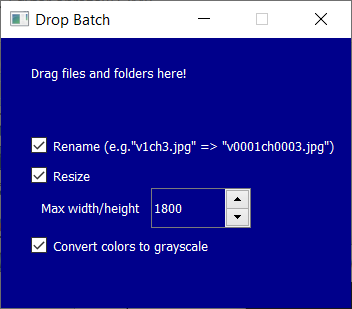
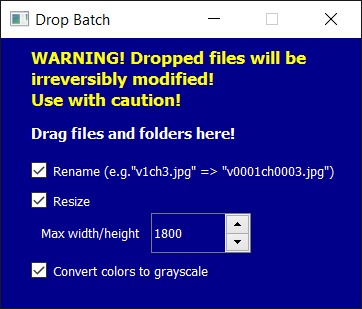
Warning text

diff --git a/DropBatch.py b/DropBatch.py
@@ -113,30 +113,35 @@ class DropBatch(QMainWindow):
 		
 		self.setAcceptDrops(True)
 		#self.resize(350, 300)
-		self.setGeometry(20, 50, 350, 270)
+		self.setGeometry(20, 50, 360, 270)
+		
+		warningLabel = QLabel("WARNING! Dropped files will be\nirreversibly modified!\nUse with caution!", self)
+		warningLabel.setGeometry(30, 0, 280, 80)
+		warningLabel.setStyleSheet("color: yellow; font-weight: bold; font-size: 10pt")
 		
 		self.statusLabel = QLabel("Drag files and folders here!", self)
-		self.statusLabel.setGeometry(30, 20, 250, 30)
+		self.statusLabel.setGeometry(30, 80, 250, 30)
+		self.statusLabel.setStyleSheet("font-weight: bold; font-size: 9pt")
 		
 		self.renameCheckbox = QCheckBox('Rename (e.g."v1ch3.jpg" => "v0001ch0003.jpg")', self)
-		self.renameCheckbox.setGeometry(30, 95, 320, 25)
+		self.renameCheckbox.setGeometry(30, 120, 320, 25)
 		self.renameCheckbox.setChecked(True)
 		
 		self.resizeCheckbox = QCheckBox("Resize", self)
-		self.resizeCheckbox.setGeometry(30, 125, 270, 25)
+		self.resizeCheckbox.setGeometry(30, 150, 270, 25)
 		self.resizeCheckbox.setChecked(True)
 		
 		maxImageSizeEditLabel = QLabel("Max width/height", self)
-		maxImageSizeEditLabel.setGeometry(40, 155, 200, 30)
+		maxImageSizeEditLabel.setGeometry(40, 180, 200, 30)
 		
 		self.maxImageSizeEdit = QSpinBox(self)
-		self.maxImageSizeEdit.setGeometry(150, 150, 100, 40)
+		self.maxImageSizeEdit.setGeometry(150, 175, 100, 40)
 		self.maxImageSizeEdit.setRange(200, 10000)
 		self.maxImageSizeEdit.setValue(1800)
 		self.maxImageSizeEdit.setSingleStep(100)
 		
 		self.grayscaleCheckbox = QCheckBox("Convert colors to grayscale", self)
-		self.grayscaleCheckbox.setGeometry(30, 195, 270, 25)
+		self.grayscaleCheckbox.setGeometry(30, 220, 270, 25)
 		self.grayscaleCheckbox.setChecked(True)
 		
 	def dragEnterEvent(self, event):
